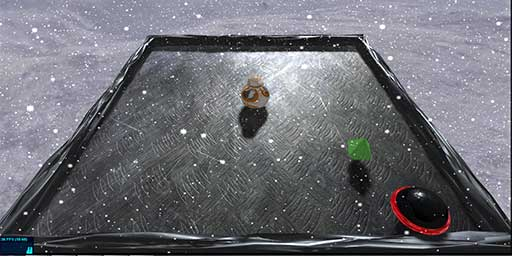
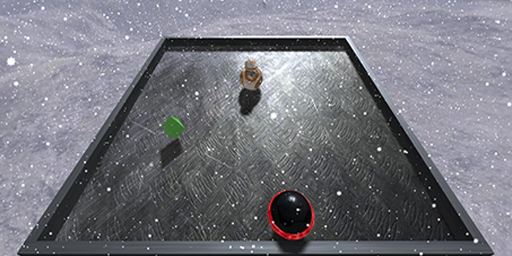
edit(*): add maps to menu

diff --git a/js/script.js b/js/script.js
@@ -18,7 +18,7 @@ window.onload = function() {
 	let camera, renderer, light, targetObject, enemyRobot1, userRobot, touchType, stats, controls, sceneBackground, snowParticlesMesh,
 		touchMode = false,
 		gameStart = false,
-		gameState = 1,
+		gameState = 0,
 		smokeParticles = [],
 		materials = [],
 		scene = new THREE.Scene(),
@@ -59,7 +59,7 @@ window.onload = function() {
 		maps = [{
 				name: 'Dark dust',
 				mapType: 1,
-				imagePath: 'images/maps/map_snow.jpg',
+				imagePath: 'images/maps/map_dust.jpg',
 				rotation: false,
 				hasSnow: false
 			},
@@ -73,7 +73,7 @@ window.onload = function() {
 			{
 				name: 'Space',
 				mapType: 3,
-				imagePath: 'images/maps/map_snow.jpg',
+				imagePath: 'images/maps/map_space.jpg',
 				rotation: true,
 				hasSnow: false
 			},
@@ -153,8 +153,8 @@ window.onload = function() {
 		light.position.set(100, 500, -650);
 		// light.position.multiplyScalar(1.3);
 		light.castShadow = true;
-		light.shadow.mapSize.width = 512;
-		light.shadow.mapSize.height = 512;
+		light.shadow.mapSize.width = 1024;
+		light.shadow.mapSize.height = 1024;
 		light.shadow.camera.left = -d;
 		light.shadow.camera.right = d;
 		light.shadow.camera.top = d;
@@ -251,7 +251,7 @@ window.onload = function() {
 
 	controls = createOrbitControl(camera, maxDistance, minDistance);
 	stats = new Stats();
-	window.fps.appendChild(stats.dom);
+	// window.fps.appendChild(stats.dom);
 
 	function rendering() {
 		if (gameStart) {

diff --git a/styles/style.css b/styles/style.css
@@ -3,7 +3,7 @@
 }
 
 html {
-	font-family: sans-serif;
+	font-family: BRL, sans-serif;
 	font-size: 16px;
 }
 
@@ -293,7 +293,7 @@ button {
 	right: 100%;
 	width: 27%;
 	height: 100%;
-	padding: 65px 0 0 70px;
+	padding: 65px 0 0 130px;
 	margin: 0;
 	background-color: rgba(0, 0, 0, 0.5);
 	color: white;
@@ -432,7 +432,7 @@ input[type=submit],
 }
 
 .subwrapper {
-	padding: 100px 50px 100px 300px;
+	padding: 100px 50px 100px 400px;
 	pointer-events: none;
 	opacity: 0;
 }
@@ -490,7 +490,7 @@ input[type=submit],
 }
 
 .maps-wrapper {
-	overflow: scroll;
+	overflow-y: scroll;
 }
 
 .map-wrapper {
@@ -500,7 +500,31 @@ input[type=submit],
 	margin: 20px 0;
 }
 
+.map-wrapper p{
+	font-size: 27px;
+	text-transform: uppercase;
+	font-weight: 700;
+}
 
+.nipple-wrapper,
+.nipple,
+.back,
+.front {
+	transform: translate3d(0, 0, 0);
+}
+
+canvas,
+.nipple-wrapper,
+.nipple,
+.back,
+.front {
+	cursor: none;
+}
+
+h1 {
+	margin: 0.2rem 0;
+	font-size: 2.2rem;
+}
 
 @font-face {
 	font-family: BRL;

diff --git a/index.html b/index.html
@@ -75,7 +75,7 @@
 		</div>
 		<div id="menu-subwrappers" class="hidden">
 			<div class="subwrapper maps-wrapper" data-subwrapper="maps">
-				<p>Some maps</p>
+				<h1>MAPS</h1>
 			</div>
 			<div class="subwrapper scores-wrapper" data-subwrapper="scores">
 				<div>
@@ -93,10 +93,10 @@
 				</div>
 			</div>
 			<div class="subwrapper settings-wrapper" data-subwrapper="settings">
-				<p>Some settings</p>
+				<h1>SETTINGS</h1>
 			</div>
 			<div class="subwrapper credits-wrapper" data-subwrapper="credits">
-				<p>Some credits</p>
+				<h1>CREDITS</h1>
 			</div>
 		</div>
 	</div>

diff --git a/js/splash-scene.js b/js/splash-scene.js
@@ -2,7 +2,7 @@ function animateSpleshScene(clock, gameState, camera, smokeParticles) {
 	newDelta = clock.getDelta();
 	evolveSmoke(smokeParticles, newDelta);
 	if (gameState === 1) {
-		camera.position.z -= 12.7;
+		camera.position.z -= 8.7;
 		camera.rotation.z += 0.005;
 	}
 }
